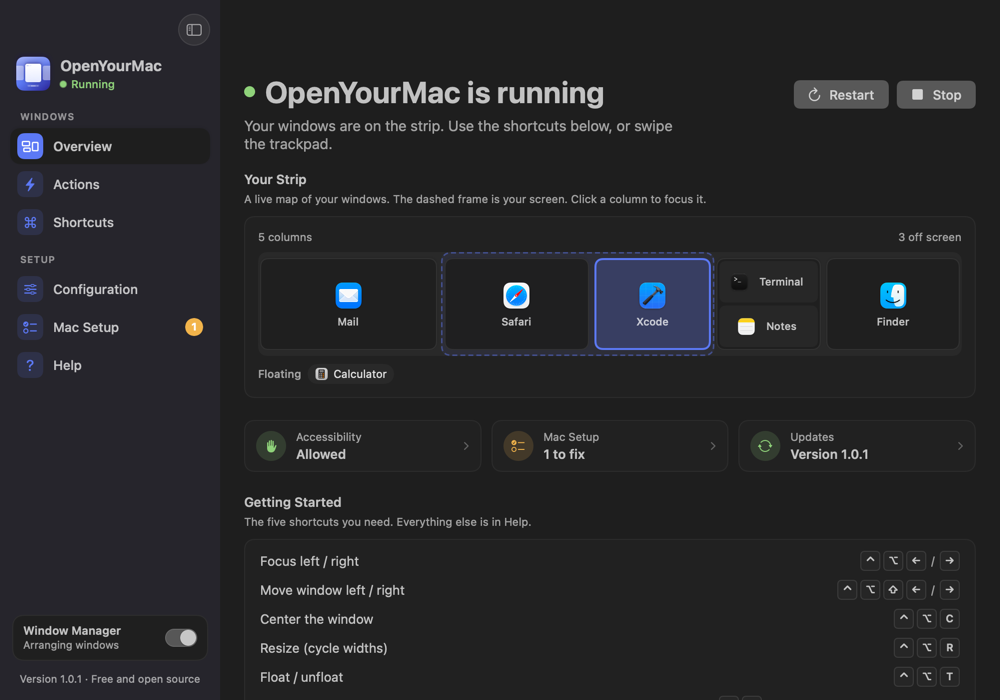
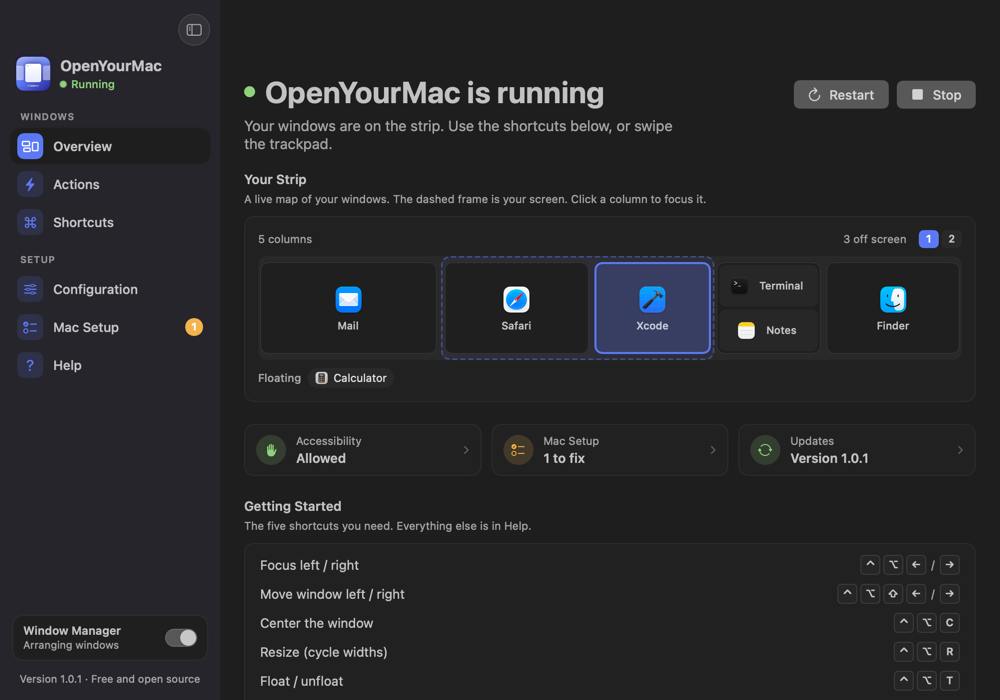
Pause the window manager for a while (#17)
* feat(app): pause the window manager for a while

Pause for 5, 15, 30, or 60 minutes from the menu bar, or for 1 to 1440
minutes with openyourmac://pause/<minutes>. The window manager starts
again by itself. Resume Now, openyourmac://resume, or a manual start ends
the pause. Overview, the sidebar, and the menu show the resume time.

Verified in an isolated VM: pause/0 and pause/abc are ignored, pause/1
stopped the engine and it started again after about 60 seconds, and
resume ended a 5-minute pause early.

* docs: refresh the Overview screenshot with workspace chips

* fix(app): end a pause on manual stop and resume after stopping

Every stop the user asks for (menu bar, URL, sidebar switch, Overview)
now ends a pause, so the window manager does not start at its old end
time. Resume waits up to 5 seconds for the pause's stop to finish before
it starts the engine.

Verified in an isolated VM: after a stop during a 1-minute pause, the
engine was still stopped 75 seconds later. A resume sent right after a
pause started a new engine.

* fix(app): cancel a waiting resume when the user stops

A resume that waits for the pause's stop to finish is now cancelled by a
user stop or a new pause, so it cannot start the window manager after
the user stopped it. Verified in an isolated VM: pause, resume, and stop
sent together left the engine stopped; pause and resume alone started it.

---------

diff --git a/app/Sources/OpenYourMac/App/AppState.swift b/app/Sources/OpenYourMac/App/AppState.swift
@@ -88,6 +88,11 @@ final class AppState: ObservableObject {
     @Published var isMainWindowVisible = false
     /// Set by Help links to scroll a page to a section after switching.
     @Published var pendingAnchor: String?
+    /// While set, the window manager is stopped and starts again at this time.
+    @Published private(set) var pausedUntil: Date?
+    private var resumeTask: Task<Void, Never>?
+    /// A resume waiting for the pause's stop to finish.
+    private var pendingResume: Task<Void, Never>?
 
     /// Called by the window controller to show the main window.
     var openMainWindow: () -> Void = {}
@@ -108,6 +113,17 @@ final class AppState: ObservableObject {
                 self?.setup.setMainWindowVisible(visible)
                 self?.engine.setMainWindowVisible(visible)
                 self?.strip.setWindowVisible(visible)
+            }
+            .store(in: &subscriptions)
+        // Starting by hand, or a failure, ends a pause.
+        engine.$state
+            .removeDuplicates()
+            .sink { [weak self] state in
+                guard let self, self.pausedUntil != nil else { return }
+                switch state {
+                case .running, .starting, .failed: self.endPause()
+                default: break
+                }
             }
             .store(in: &subscriptions)
         permissions.$isTrusted
@@ -132,6 +148,69 @@ final class AppState: ObservableObject {
 
     /// Starts the engine when everything it needs is ready. After an update
     /// relaunch, a running engine is restored even if automatic start is off.
+    // MARK: Pause
+
+    /// Stops arranging windows for a while, for example during screen sharing,
+    /// then starts again by itself. Starting or stopping by hand ends the pause.
+    func pause(minutes: Int) {
+        guard !AppPaths.isSnapshot, (1...1440).contains(minutes),
+              engine.state.isRunning || engine.state == .starting else { return }
+        let until = Date().addingTimeInterval(TimeInterval(minutes * 60))
+        pendingResume?.cancel()
+        pendingResume = nil
+        engine.stop()
+        pausedUntil = until
+        resumeTask?.cancel()
+        resumeTask = Task { [weak self] in
+            try? await Task.sleep(nanoseconds: UInt64(minutes) * 60 * 1_000_000_000)
+            guard !Task.isCancelled, let self, self.pausedUntil == until else { return }
+            self.resumeFromPause()
+        }
+        toasts.show("Paused until \(Self.timeFormatter.string(from: until))", kind: .info)
+    }
+
+    /// Ends a pause now and starts the window manager when it is allowed to run.
+    /// The pause's own stop can still be finishing, so wait for it first.
+    func resumeFromPause() {
+        guard pausedUntil != nil else { return }
+        endPause()
+        pendingResume?.cancel()
+        pendingResume = Task { [weak self] in
+            for _ in 0..<50 {
+                guard let self, self.engine.state == .stopping else { break }
+                try? await Task.sleep(nanoseconds: 100_000_000)
+            }
+            // A stop or a new pause since then cancels this resume.
+            guard !Task.isCancelled, let self else { return }
+            self.permissions.refresh()
+            guard self.permissions.isTrusted, self.preferences.onboardingCompleted,
+                  self.engine.state == .stopped else { return }
+            self.engine.start()
+        }
+    }
+
+    /// A stop the user asked for. It also ends a pause, so the window manager
+    /// does not start again at the pause's end.
+    func stopEngineByUser() {
+        endPause()
+        pendingResume?.cancel()
+        pendingResume = nil
+        engine.stop()
+    }
+
+    private func endPause() {
+        pausedUntil = nil
+        resumeTask?.cancel()
+        resumeTask = nil
+    }
+
+    static let timeFormatter: DateFormatter = {
+        let formatter = DateFormatter()
+        formatter.timeStyle = .short
+        formatter.dateStyle = .none
+        return formatter
+    }()
+
     func autoStartIfReady(restoringRunningEngine: Bool = false) {
         setup.refresh()
         guard !AppPaths.isSnapshot, preferences.startEngineAutomatically || restoringRunningEngine,

diff --git a/app/Sources/OpenYourMac/App/StatusBarController.swift b/app/Sources/OpenYourMac/App/StatusBarController.swift
@@ -67,6 +67,11 @@ final class StatusBarController: NSObject, NSMenuDelegate {
                 DispatchQueue.main.async { self?.rebuild() }
             }
             .store(in: &subscriptions)
+        state.$pausedUntil
+            .sink { [weak self] _ in
+                DispatchQueue.main.async { self?.rebuild() }
+            }
+            .store(in: &subscriptions)
         state.updates.$phase
             .combineLatest(state.updates.$hasUnseenUpdate)
             .sink { [weak self] _, _ in
@@ -122,7 +127,11 @@ final class StatusBarController: NSObject, NSMenuDelegate {
         item.button?.image = Self.statusImage(badged: badged, note: failed ? "needs attention" : "update available")
 
         add(AppPaths.appName, to: menu, enabled: false)
-        add("Status: \(engineState.label)", to: menu, enabled: false)
+        if let until = state.pausedUntil {
+            add("Status: Paused until \(AppState.timeFormatter.string(from: until))", to: menu, enabled: false)
+        } else {
+            add("Status: \(engineState.label)", to: menu, enabled: false)
+        }
         if case .failed(let failure) = engineState {
             add("\(failureTitle(failure)) — Show Details…", to: menu, action: #selector(showDetails))
         }
@@ -136,6 +145,17 @@ final class StatusBarController: NSObject, NSMenuDelegate {
         add("Start", to: menu, action: #selector(start), key: "s", enabled: !engineState.isBusy)
         add("Stop", to: menu, action: #selector(stop), key: "t")
         add("Restart", to: menu, action: #selector(restart), key: "r", enabled: !engineState.isBusy)
+        if state.pausedUntil != nil {
+            add("Resume Now", to: menu, action: #selector(resumeNow))
+        } else {
+            let pause = add("Pause", to: menu, enabled: engineState.isRunning)
+            let pauseMenu = NSMenu(title: "Pause")
+            pauseMenu.autoenablesItems = false
+            for (title, minutes) in [("For 5 Minutes", 5), ("For 15 Minutes", 15), ("For 30 Minutes", 30), ("For 1 Hour", 60)] {
+                add(title, to: pauseMenu, action: #selector(pauseFor(_:))).tag = minutes
+            }
+            pause.submenu = pauseMenu
+        }
         let windows = add("Windows", to: menu, enabled: engineState.isRunning)
         let windowsMenu = NSMenu(title: "Windows")
         windowsMenu.delegate = self
@@ -282,7 +302,7 @@ final class StatusBarController: NSObject, NSMenuDelegate {
 
     @objc private func start() { permittedStart() }
 
-    @objc private func stop() { state.engine.stop() }
+    @objc private func stop() { state.stopEngineByUser() }
 
     @objc private func restart() { permittedStart(restart: true) }
 
@@ -295,6 +315,10 @@ final class StatusBarController: NSObject, NSMenuDelegate {
     @objc private func checkUpdates() { state.updates.checkForUpdates() }
 
     @objc private func quit() { NSApp.terminate(nil) }
+
+    @objc private func pauseFor(_ sender: NSMenuItem) { state.pause(minutes: sender.tag) }
+
+    @objc private func resumeNow() { state.resumeFromPause() }
 
     @objc private func performAction(_ sender: NSMenuItem) {
         guard let command = sender.representedObject as? EngineCommand else { return }

diff --git a/app/Sources/OpenYourMac/Views/Shell/SidebarView.swift b/app/Sources/OpenYourMac/Views/Shell/SidebarView.swift
@@ -83,6 +83,10 @@ struct SidebarView: View {
         .frame(maxHeight: .infinity, alignment: .top)
     }
 
+    private var statusColor: Color {
+        state.pausedUntil == nil ? engine.state.statusColor : Theme.warning
+    }
+
     private var header: some View {
         HStack(spacing: 10) {
             BrandMark(size: 34)
@@ -91,15 +95,15 @@ struct SidebarView: View {
                     .font(.system(size: 15, weight: .bold))
                     .foregroundStyle(Theme.textPrimary)
                 HStack(spacing: 5) {
-                    StatusDot(color: engine.state.statusColor, size: 6)
+                    StatusDot(color: statusColor, size: 6)
                         .background {
                             if engine.state.isRunning {
                                 PulseRing(color: engine.state.statusColor)
                             }
                         }
-                    Text(engine.state.sidebarLabel)
+                    Text(state.pausedUntil == nil ? engine.state.sidebarLabel : "Paused")
                         .font(.system(size: 11, weight: .medium))
-                        .foregroundStyle(engine.state.statusColor)
+                        .foregroundStyle(statusColor)
                 }
             }
         }
@@ -196,7 +200,7 @@ private struct EnginePowerCard: View {
             Spacer(minLength: 0)
             Toggle("Window Manager", isOn: Binding(
                 get: { engine.state.isRunning || engine.state == .starting },
-                set: { on in on ? state.startEngineFromUI() : engine.stop() }
+                set: { on in on ? state.startEngineFromUI() : state.stopEngineByUser() }
             ))
             .toggleStyle(.switch)
             .labelsHidden()
@@ -219,7 +223,8 @@ private struct EnginePowerCard: View {
         case .running: return "Arranging windows"
         case .starting: return "Starting…"
         case .stopping: return "Stopping…"
-        case .stopped: return "Off"
+        case .stopped:
+            return state.pausedUntil.map { "Paused until \(AppState.timeFormatter.string(from: $0))" } ?? "Off"
         case .failed: return "Needs attention"
         }
     }

diff --git a/app/Sources/OpenYourMac/Views/Overview/OverviewView.swift b/app/Sources/OpenYourMac/Views/Overview/OverviewView.swift
@@ -86,7 +86,9 @@ struct OverviewView: View {
         case .running: return "\(AppPaths.appName) is running"
         case .starting: return "Starting…"
         case .stopping: return "Stopping…"
-        case .stopped: return "\(AppPaths.appName) is stopped"
+        case .stopped:
+            if let until = state.pausedUntil { return "Paused until \(AppState.timeFormatter.string(from: until))" }
+            return "\(AppPaths.appName) is stopped"
         case .failed: return "The window manager stopped"
         }
     }
@@ -95,6 +97,8 @@ struct OverviewView: View {
         switch engine.state {
         case .running: return "Your windows are on the strip. Use the shortcuts below, or swipe the trackpad."
         case .starting, .stopping: return "One moment."
+        case .stopped where state.pausedUntil != nil:
+            return "Windows stay where they are. The window manager starts again by itself, or click Resume."
         case .stopped:
             return permissions.isTrusted
                 ? "Windows are left where they are. Click Start to put them on the strip."
@@ -114,12 +118,19 @@ struct OverviewView: View {
                 .buttonStyle(SecondaryButtonStyle())
                 .disabled(engine.state.isBusy)
                 Button {
-                    engine.stop()
+                    state.stopEngineByUser()
                 } label: {
                     Label("Stop", systemImage: "stop.fill")
                 }
                 .buttonStyle(SecondaryButtonStyle())
                 .disabled(engine.state.isBusy)
+            } else if state.pausedUntil != nil {
+                Button {
+                    state.resumeFromPause()
+                } label: {
+                    Label("Resume Now", systemImage: "play.fill")
+                }
+                .buttonStyle(PrimaryButtonStyle())
             } else {
                 Button {
                     state.startEngineFromUI()

diff --git a/app/Sources/OpenYourMac/App/URLRouter.swift b/app/Sources/OpenYourMac/App/URLRouter.swift
@@ -61,6 +61,19 @@ final class URLRouter {
                 return
             }
             performLifecycle(verb)
+        case "pause":
+            // openyourmac://pause/<minutes>, 1–1440.
+            guard parts.count == 2, let minutes = Int(parts[1]), (1...1440).contains(minutes) else {
+                reject()
+                return
+            }
+            state.pause(minutes: minutes)
+        case "resume":
+            guard parts.count == 1 else {
+                reject()
+                return
+            }
+            state.resumeFromPause()
         case "open":
             // openyourmac://open/<page>[/<section>] shows the window at that page.
             guard (2...3).contains(parts.count), let page = SidebarPage(urlName: parts[1]) else {
@@ -107,7 +120,7 @@ final class URLRouter {
         let canStart = state.permissions.isTrusted && state.preferences.onboardingCompleted
         switch verb {
         case "stop":
-            engine.stop()
+            state.stopEngineByUser()
         case "start":
             if canStart {
                 engine.start()
@@ -118,7 +131,7 @@ final class URLRouter {
             }
         case "toggle":
             if engine.state.isRunning || engine.state == .starting {
-                engine.stop()
+                state.stopEngineByUser()
             } else if canStart {
                 engine.start()
             }

diff --git a/resources/raycast/README.md b/resources/raycast/README.md
@@ -88,6 +88,8 @@ Direction values are `west`, `east`, `north`, `south`, `first`, and `last`.
 | `openyourmac://window/nextdisplay` | Move the active window to the next display. |
 | `openyourmac://window/pin/<left\|right>` | Pin the active column to that edge, or unpin it. |
 | `openyourmac://strip/show` | Show the strip minimap. |
+| `openyourmac://pause/<minutes>` | Stop window management for 1–1440 minutes, then start it again. |
+| `openyourmac://resume` | End a pause now. |
 | `openyourmac://open/<page>` | Open the app window at a page: `overview`, `actions`, `shortcuts`, `settings`, `setup`, or `help`. |
 | `openyourmac://open/settings/<section>` | Open Configuration at a section: `general`, `updates`, `displays`, `layout`, `widths`, `appearance`, `gestures`, `behavior`, or `rules`. Help accepts `shortcuts`, `settings`, `integrations`, and `about`. |
 

diff --git a/README.md b/README.md
@@ -41,6 +41,8 @@ endorsed by ChainYourMac or its developer. OpenYourMac uses its own config path,
 - Focus borders, inactive-window dimming, gaps, and Dock awareness.
 - Session restore, native tab groups, floating dialogs, window rules, and
   per-display controls.
+- Pause window management for a while, for example during screen sharing.
+  It starts again by itself.
 - Editable shortcuts and a Mac Setup page that checks for common conflicts.
 - A SwiftUI settings app with search on the Shortcuts and Actions pages.
 - Raycast scripts, URL actions and page links, and a CLI.

diff --git a/CHANGELOG.md b/CHANGELOG.md
@@ -11,6 +11,8 @@ Versions follow [Semantic Versioning](https://semver.org/).
 ### Added
 
 - A live map of each display's strip on Overview. Click a column to focus it.
+- Pause the window manager for 5 minutes to 1 hour from the menu bar, or with
+  `openyourmac://pause/<minutes>`. It starts again by itself.
 - Workspace chips on the live map that switch virtual workspaces.
 - Right-click a window on the live map to make its app always float or tile.
 - The last onboarding step shows the user's own strip.
